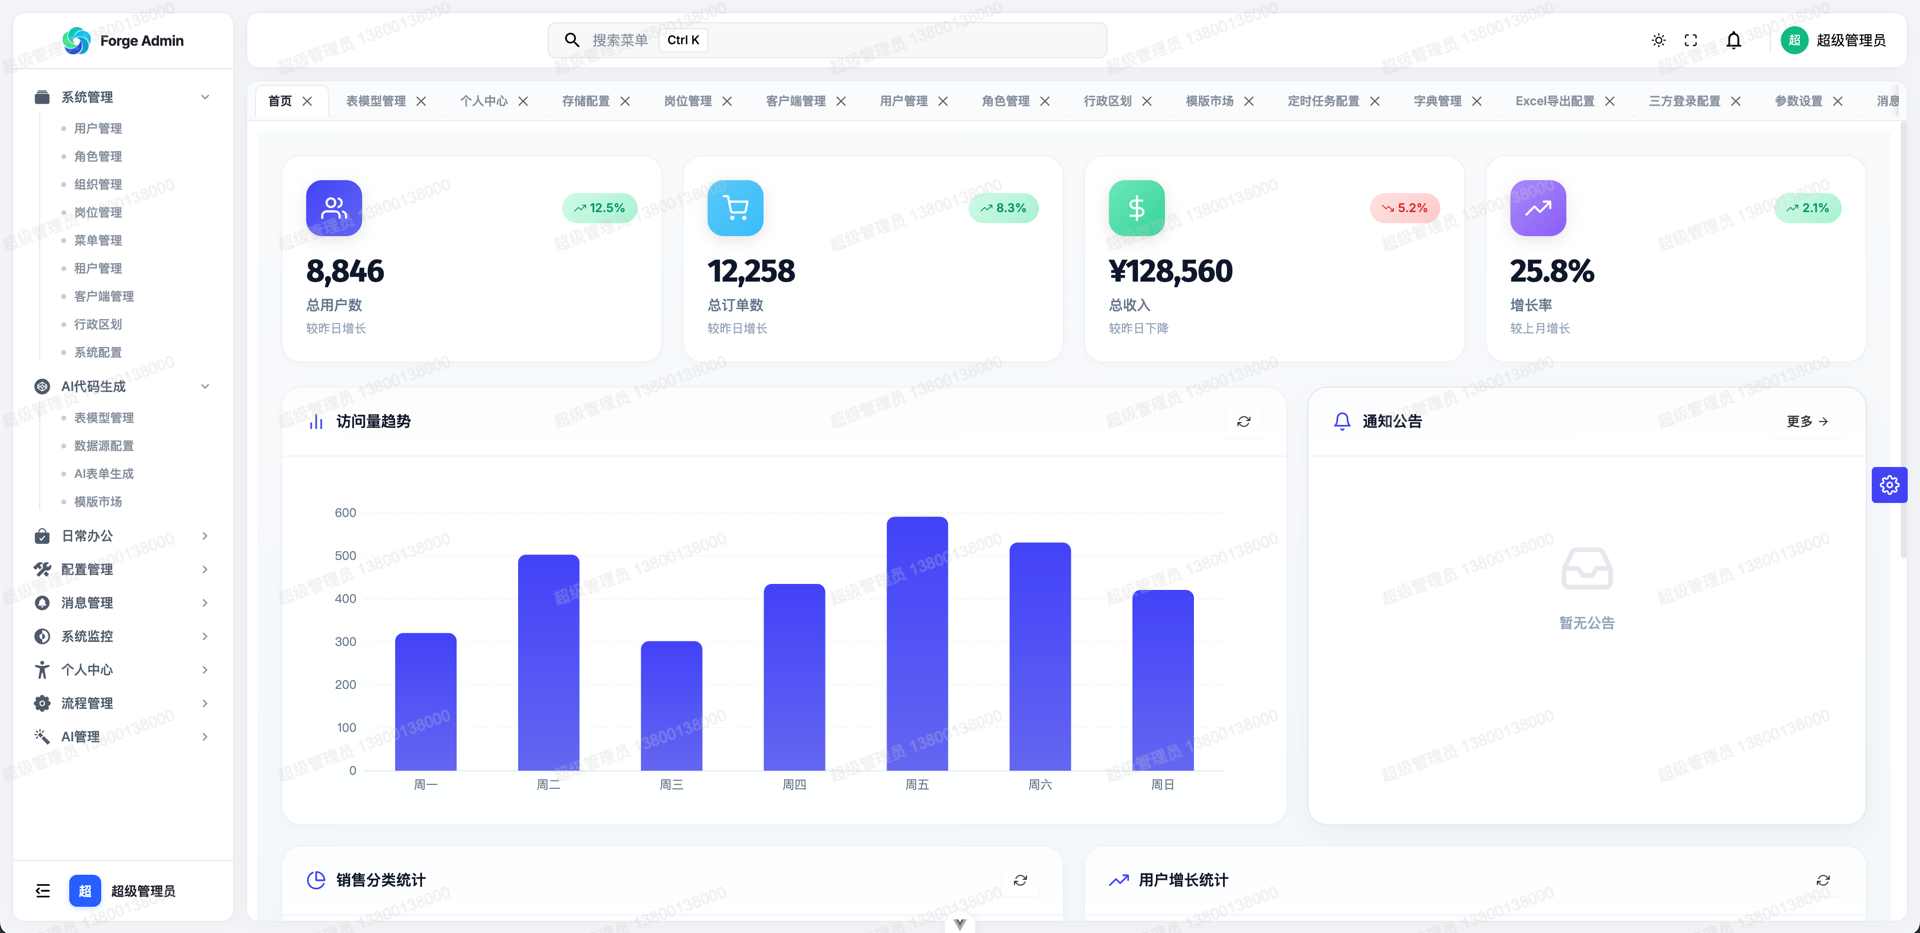
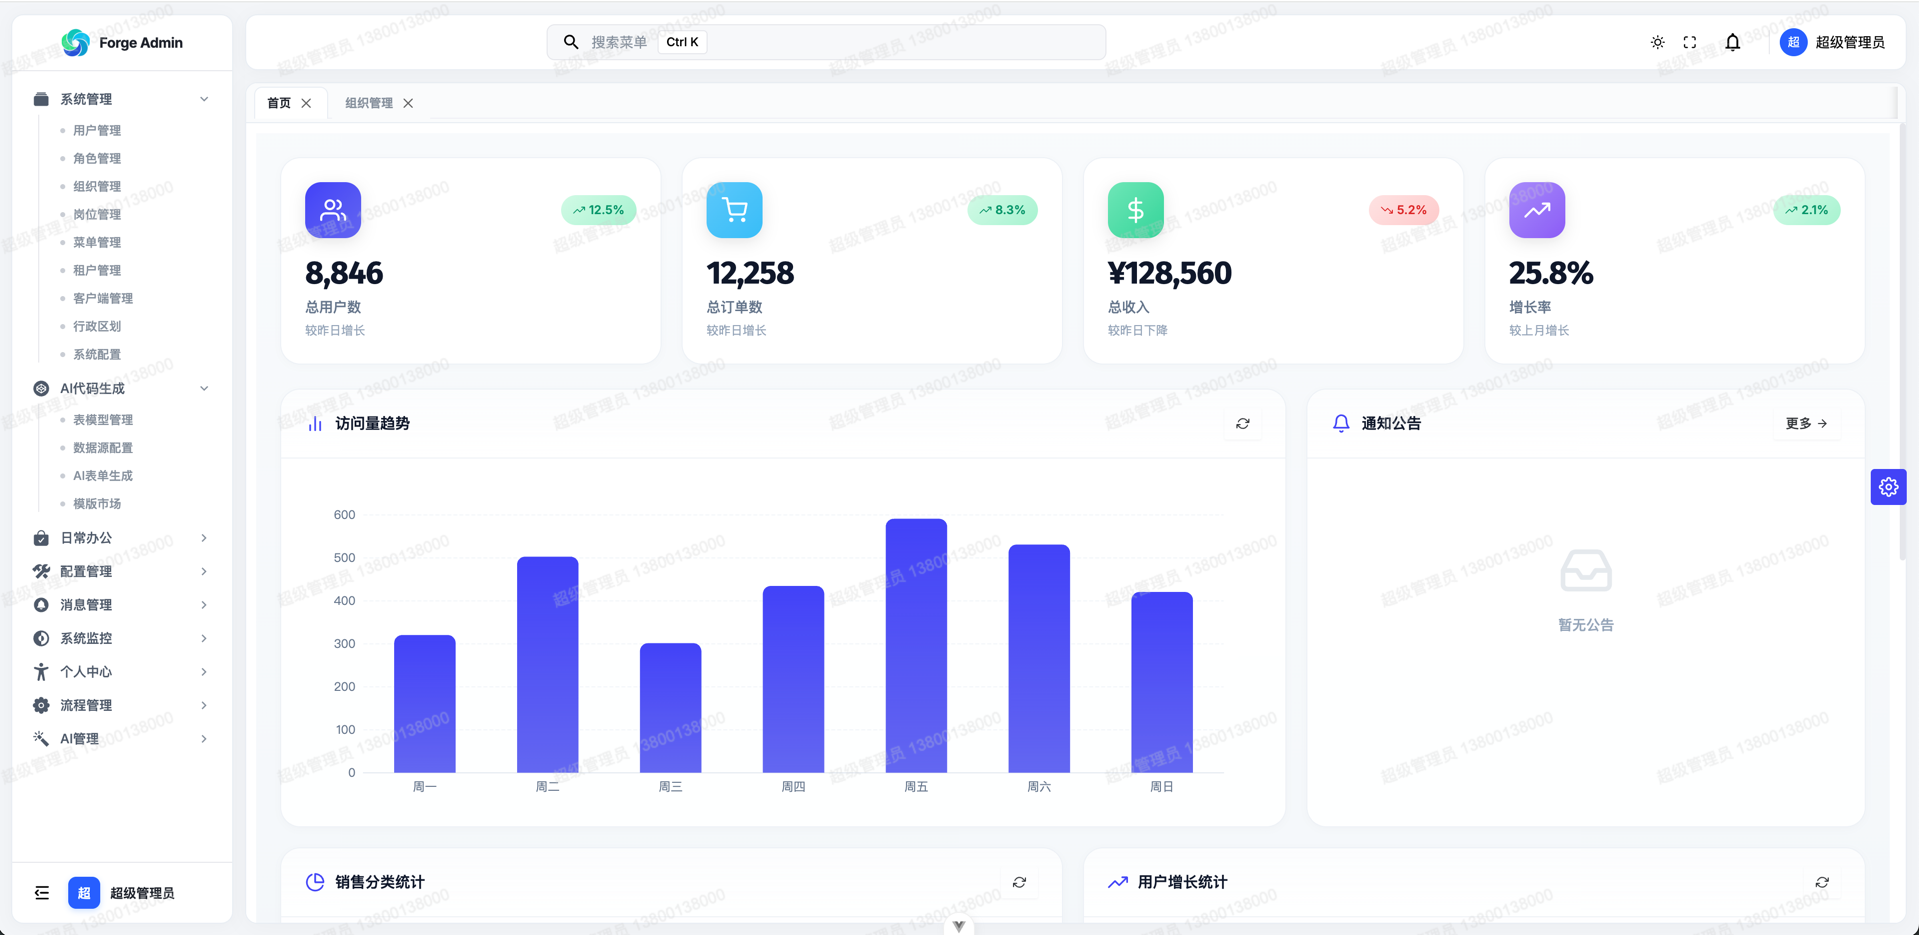
feat:修改布局设置

diff --git a/forge-admin-ui/src/views/system/profile.vue b/forge-admin-ui/src/views/system/profile.vue
@@ -18,7 +18,7 @@
                 v-else
                 :size="72"
                 round
-                :style="{ backgroundColor: '#10B981', fontSize: '28px' }"
+                :style="{ backgroundColor: 'var(--primary-500)', fontSize: '28px' }"
                 class="profile-avatar"
               >
                 {{ avatarText }}

diff --git a/forge-admin-ui/src/layouts/components/UserAvatar.vue b/forge-admin-ui/src/layouts/components/UserAvatar.vue
@@ -12,7 +12,7 @@
         v-else
         round
         :size="28"
-        :style="{ backgroundColor: '#10B981', fontSize: '12px' }"
+        :style="{ backgroundColor: 'var(--primary-500)', fontSize: '12px' }"
       >
         {{ avatarText }}
       </n-avatar>
